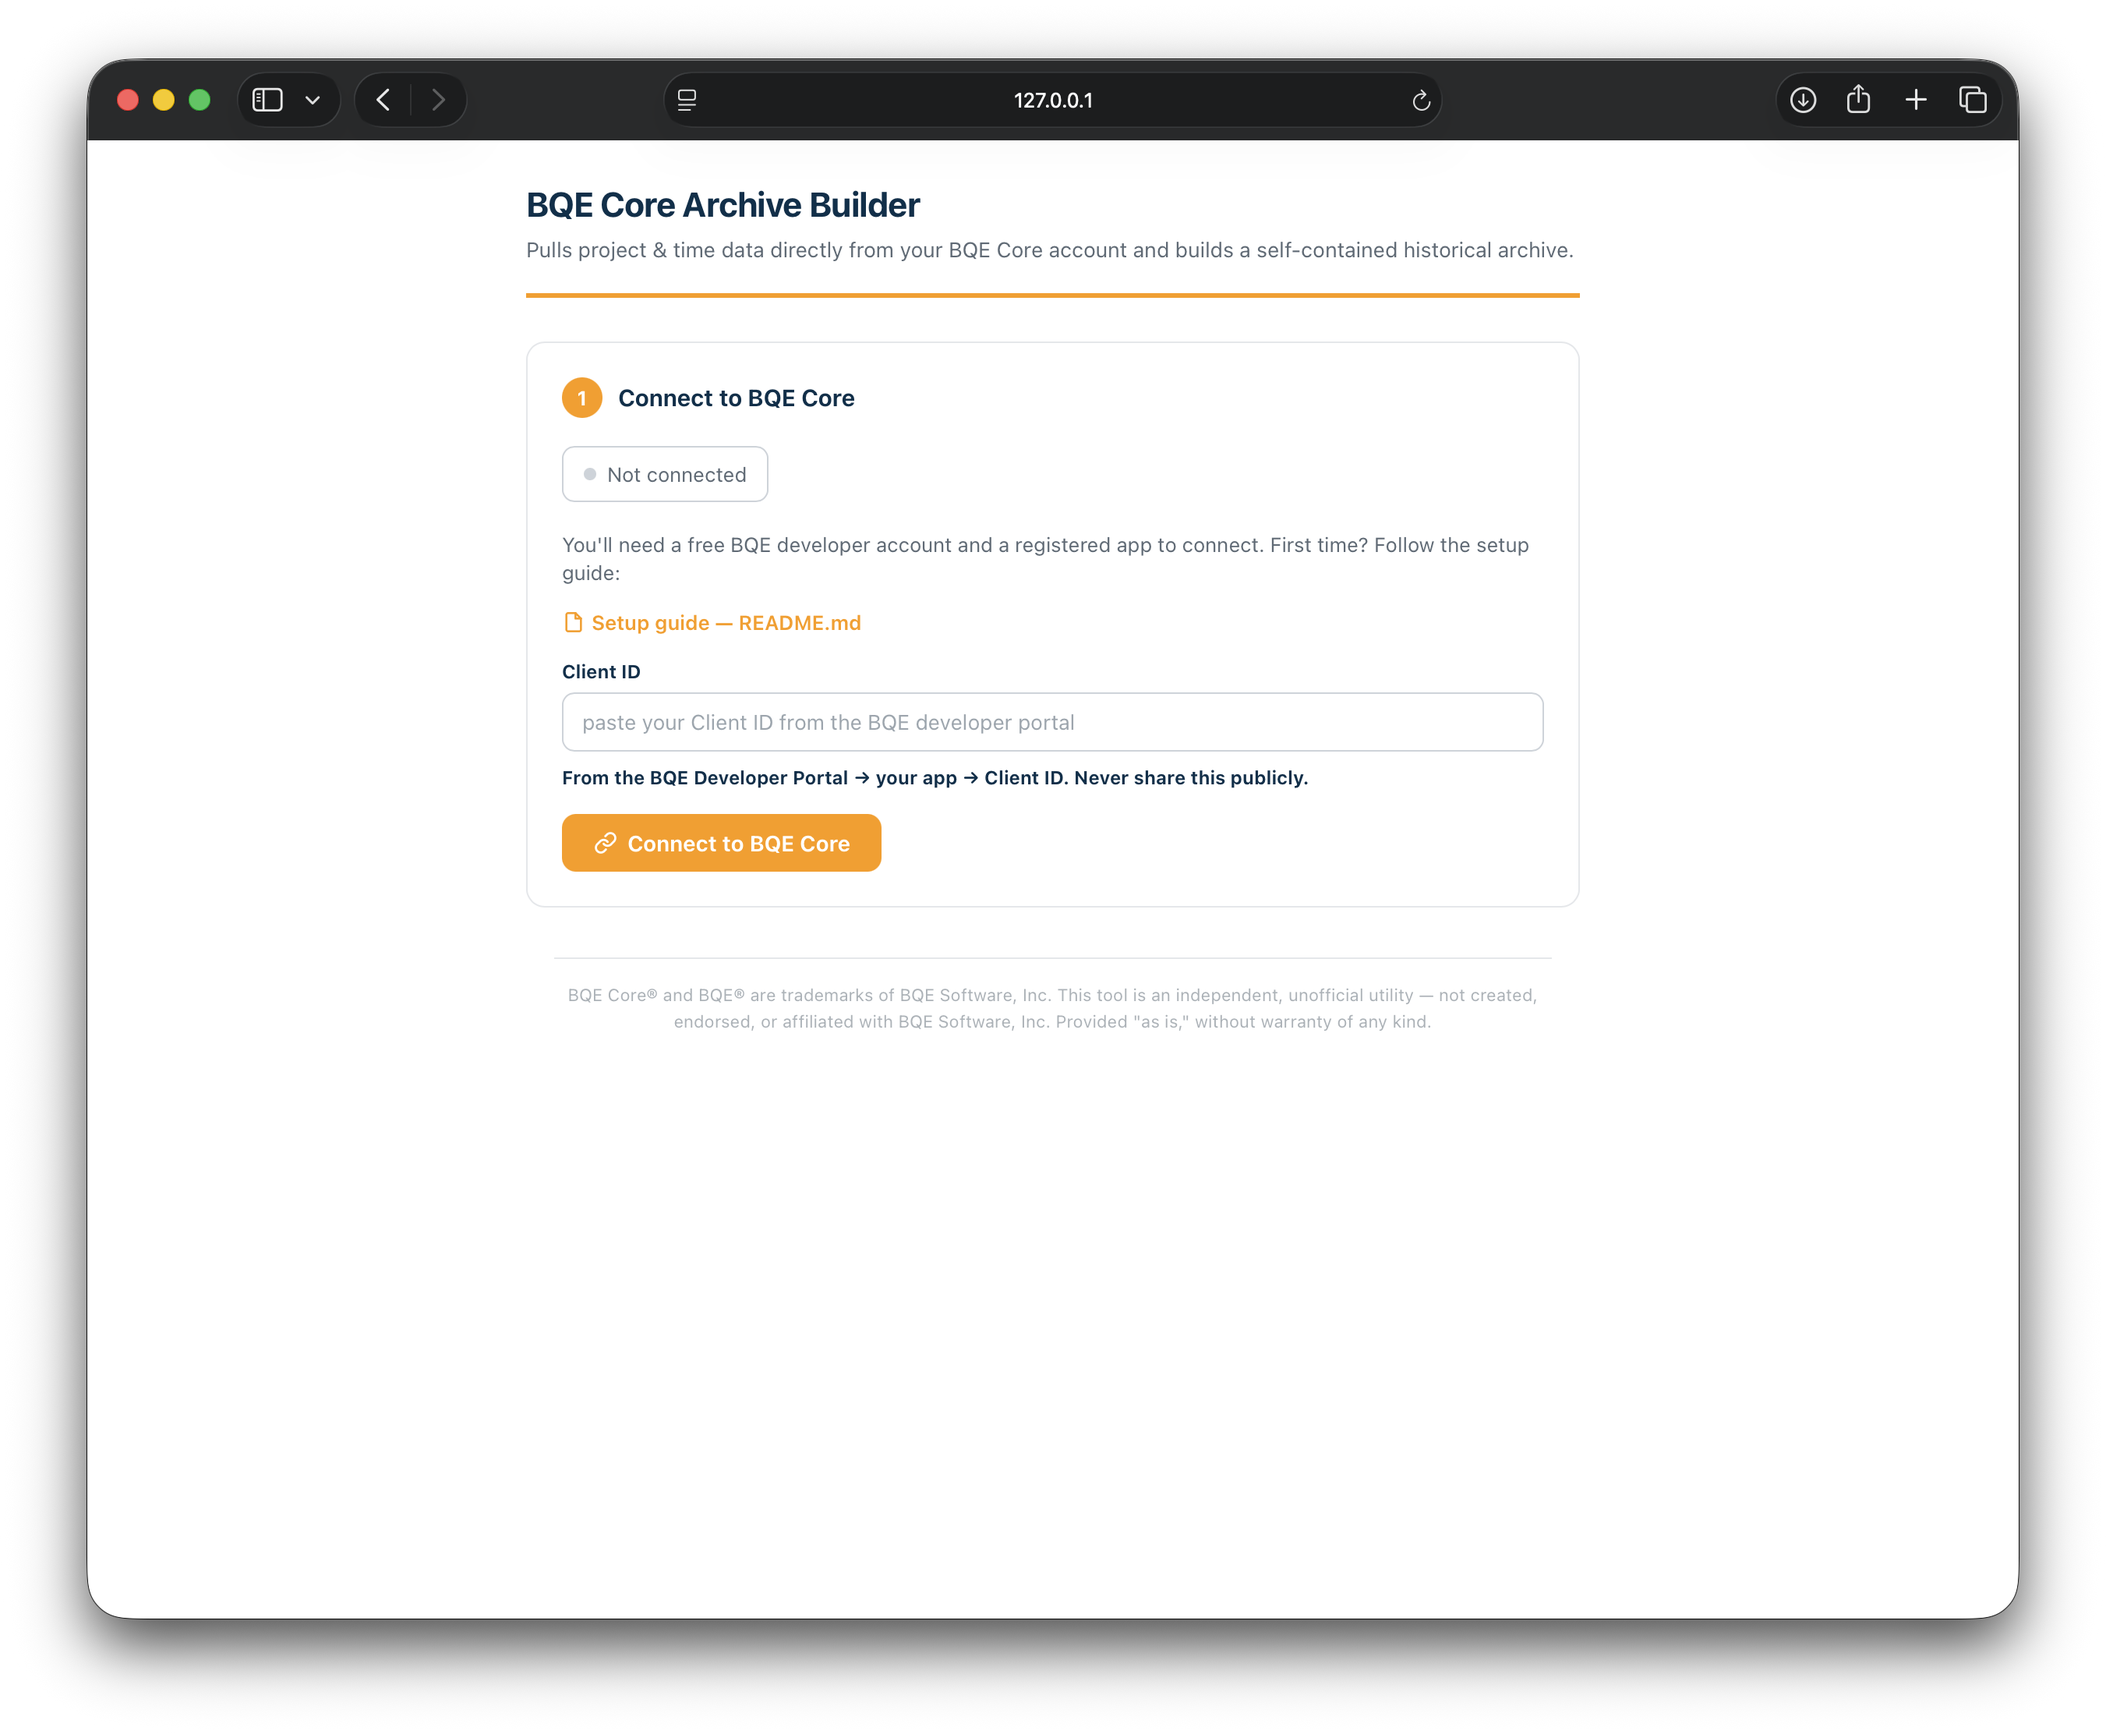
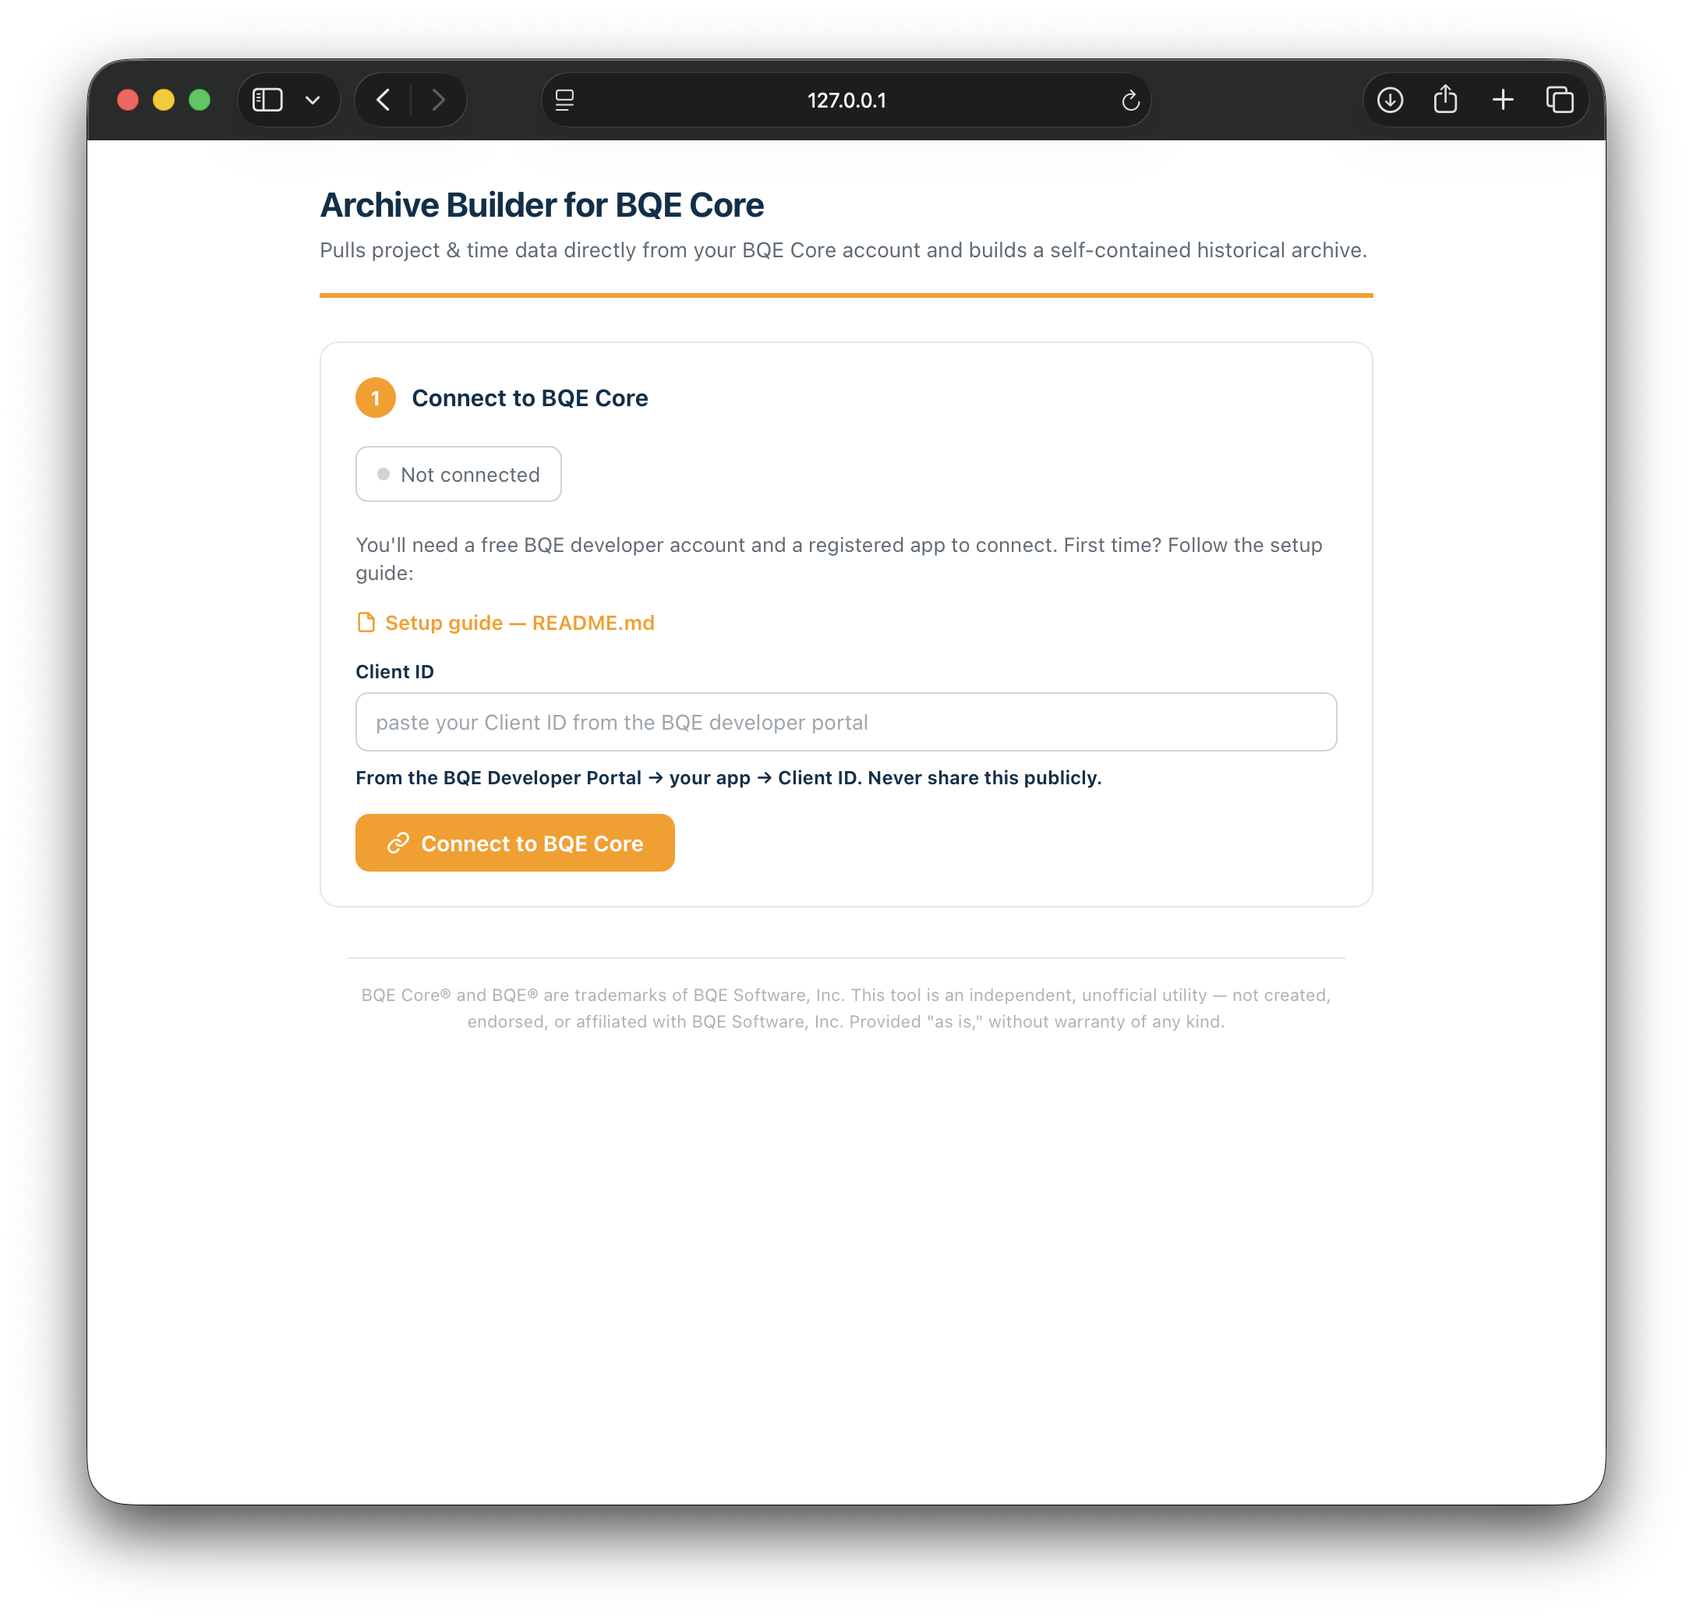
screenshots

Changed region(s): [[0.0308, 0.0308, 0.9871, 0.9548], [0.1851, 0.2156, 0.7403, 0.6468], [0.2776, 0.616, 0.3085, 0.6468]]

diff --git a/index.html b/index.html
@@ -3,7 +3,7 @@
 <head>
 <meta charset="UTF-8">
 <meta name="viewport" content="width=device-width, initial-scale=1.0">
-<title>BQE Core Archive Builder</title>
+<title>Archive Builder for BQE Core</title>
 <style>
   :root{
     --navy:#00304b; --orange:#ff9900; --red:#c0392b;
@@ -100,7 +100,7 @@
 <div class="wrap">
 
   <header class="top">
-    <h1>BQE Core Archive Builder</h1>
+    <h1>Archive Builder for BQE Core</h1>
     <div class="sub">Pulls project &amp; time data directly from your BQE Core account and builds a self-contained historical archive.</div>
   </header>
 
@@ -158,10 +158,6 @@
       <p style="font-size:13px;color:var(--muted);margin:0 0 16px">
         Pulls all projects, time entries, expense entries, and invoices from your account. For 15 years of data this typically takes 1–4 minutes.
       </p>
-      <label style="display:flex;align-items:center;gap:8px;font-size:13px;color:var(--muted);margin-bottom:14px;cursor:pointer">
-        <input type="checkbox" id="testMode">
-        Test mode — first page only (~1,000 records per dataset, fast)
-      </label>
       <button class="btn btn-primary" id="btnFetch">Fetch all data</button>
       <div class="errline" id="fetchErr" hidden></div>
     </div>
@@ -333,8 +329,7 @@
     $('fetchBarFill').style.width = '0%';
     $('fetchMsg').textContent = 'Starting…';
 
-    const testMode = $('testMode').checked;
-    const es = new EventSource(testMode ? '/fetch?pages=1' : '/fetch');
+    const es = new EventSource('/fetch');
 
     es.addEventListener('progress', e => {
       const d = JSON.parse(e.data);

diff --git a/handler.py b/handler.py
@@ -171,8 +171,6 @@ class Handler(BaseHTTPRequestHandler):
             self._send_json({"error": "not connected"}, 401)
             return
 
-        max_pages = int(params["pages"]) if params.get("pages", "").isdigit() else None
-
         self.send_response(200)
         self.send_header("Content-Type", "text/event-stream")
         self.send_header("Cache-Control", "no-cache")
@@ -192,7 +190,6 @@ class Handler(BaseHTTPRequestHandler):
                 "project",
                 {"fields": "id,code,name,parentId,rootProjectId,level,"
                            "contractAmount,contractType,startDate"},
-                max_pages=max_pages,
             )
             emit("progress", {"phase": "projects", "msg": f"{len(projects):,} projects", "pct": 20})
 
@@ -201,7 +198,6 @@ class Handler(BaseHTTPRequestHandler):
                 "timeentry",
                 {"fields": "projectId,billable,extra,costRate,actualHours,billRate,classification,resource"},
                 on_page=lambda n: emit("progress", {"phase": "time", "msg": f"Time entries: {n:,}…", "pct": 22}),
-                max_pages=max_pages,
             )
             emit("progress", {"phase": "time", "msg": f"{len(time_entries):,} time entries", "pct": 60})
 
@@ -209,12 +205,11 @@ class Handler(BaseHTTPRequestHandler):
             expense_entries = bqe.fetch_all(
                 "expenseentry",
                 {"fields": "projectId,billable,extra,costRate,units,chargeAmount"},
-                max_pages=max_pages,
             )
             emit("progress", {"phase": "expense", "msg": f"{len(expense_entries):,} expense entries", "pct": 75})
 
             emit("progress", {"phase": "invoices", "msg": "Fetching invoices…", "pct": 77})
-            invoices = bqe.fetch_all("invoice", {"expand": "invoiceDetails"}, page_size=100, max_pages=max_pages)
+            invoices = bqe.fetch_all("invoice", {"expand": "invoiceDetails"}, page_size=100)
             emit("progress", {"phase": "invoices", "msg": f"{len(invoices):,} invoices", "pct": 90})
 
             emit("progress", {"phase": "join", "msg": "Joining data…", "pct": 93})

diff --git a/README.md b/README.md
@@ -1,4 +1,4 @@
-# BQE Core Archive Builder
+# Archive Builder for BQE Core
 
 A small local tool that reads your firm's project, time, expense, and invoice
 data **directly from the BQE Core API** and builds a **self-contained HTML
@@ -65,10 +65,9 @@ Review & build.**
 ### Preview without connecting
 
 A ready-made demo built from **fake sample data** is included:
-[`sample-archive.html`](sample-archive.html). Download it and open in a browser,
-or view it rendered online via
-[htmlpreview](https://htmlpreview.github.io/?https://github.com/USER/REPO/blob/main/sample-archive.html)
-*(replace `USER/REPO` with this repo's path)*.
+
+- **[▶ View the sample archive live](https://htmlpreview.github.io/?https://github.com/markwarfel/Archive-Builder-for-BQE-Core/blob/main/sample-archive.html)** — rendered right in your browser, nothing to install (via htmlpreview.github.io).
+- Or **[open the file on GitHub](sample-archive.html)** and click **Download raw file** to save it and open it locally.
 
 To regenerate it yourself (no BQE account needed):
 
@@ -142,8 +141,7 @@ local to this folder, so you stay connected across restarts.
 ## Using the builder
 
 **Step 2 — Fetch.** Click **Fetch all data**. For 15 years of history this
-typically takes 1–4 minutes. A **Test mode** checkbox pulls only the first page
-of each dataset for a fast trial run.
+typically takes 1–4 minutes.
 
 ![Connected, ready to fetch](docs/builder-2-fetch.png)
 
